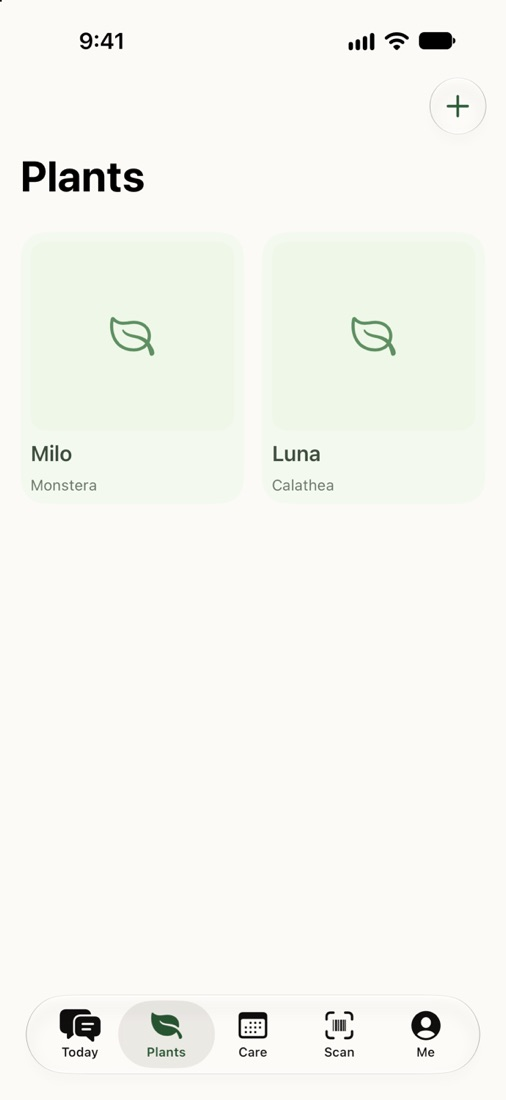
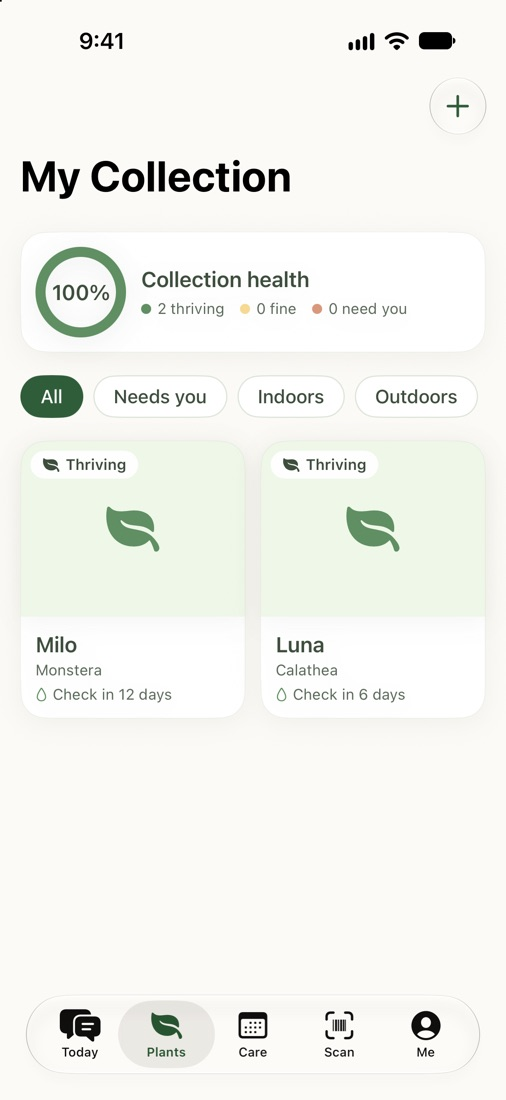
Website: use redesigned app screens (Home, My Collection, plant page, Care, Scan) and add Scan section

diff --git a/Website/build.py b/Website/build.py
@@ -44,6 +44,8 @@ T = {
   "s1_list": [("Plants", "Names, species, rooms and history"), ("Today", "The chat where you log care and ask questions"), ("Care", "This week, this month, this season"), ("Scan", "Products and plants, on-device")],
   "s2_eyebrow": "Plan ahead", "s2_h": "Know what's next before your plants droop.",
   "s2_sub": "A care calendar built from what you actually did. Going away? Travel care tells you what to do before you leave.",
+  "s3_eyebrow": "Scan", "s3_h": "Point at a label. Know if it's right for your plants.",
+  "s3_sub": "Scan the back of a fertiliser, potting mix or treatment and My Tiny Jungle checks it against every plant you have. Or scan a new plant, or a sick leaf, to find out what's going on.",
   "p_eyebrow": "Pricing", "p_h": "Start free. Grow when you're ready.",
   "plans": [
     ("Free", "€0", "forever", ["Up to 5 plants", "Chat and care requests", "Soil-check ritual", "Care calendar"], False, ""),
@@ -120,6 +122,8 @@ T = {
   "s1_list": [("Plantas", "Nomes, espécies, divisões e histórico"), ("Hoje", "A conversa onde regista cuidados e faz perguntas"), ("Cuidados", "Esta semana, este mês, esta estação"), ("Ler", "Produtos e plantas, no dispositivo")],
   "s2_eyebrow": "Planeie com antecedência", "s2_h": "Saiba o que vem a seguir antes de as plantas murcharem.",
   "s2_sub": "Um calendário feito a partir do que realmente fez. Vai viajar? Os cuidados de viagem dizem-lhe o que fazer antes de sair.",
+  "s3_eyebrow": "Ler", "s3_h": "Aponte para o rótulo. Saiba se serve para as suas plantas.",
+  "s3_sub": "Leia o verso de um adubo, substrato ou tratamento e a My Tiny Jungle compara-o com todas as suas plantas. Ou leia uma planta nova, ou uma folha doente, para perceber o que se passa.",
   "p_eyebrow": "Preços", "p_h": "Comece grátis. Cresça quando quiser.",
   "plans": [
     ("Grátis", "0 €", "para sempre", ["Até 5 plantas", "Conversa e pedidos de cuidado", "Ritual de verificar a terra", "Calendário de cuidados"], False, ""),
@@ -219,19 +223,23 @@ def home(L):
 <section class="hero"><div class="wrap">
 <div><h1 class="rise">{t['h1']}</h1><p class="lead rise d1">{t['lead']}</p>
 <div class="ctas rise d2">{cta}</div><p class="note">{t['note']}</p></div>
-<div class="stage"><div class="blob"></div>{phone('screen-today.jpg', 'Today chat screen').replace('loading="lazy"', 'fetchpriority="high"')}{phone('screen-care.jpg', 'Care calendar screen', 'back')}</div>
+<div class="stage"><div class="blob"></div>{phone('screen-home.jpg', 'Home screen').replace('loading="lazy"', 'fetchpriority="high"')}{phone('screen-plant.jpg', 'Plant page', 'back')}</div>
 </div></section>
 <section class="talk"><div class="wrap"><div class="bubbles">{bub}</div></div></section>
 <section class="section" id="features"><div class="wrap">
 <div class="eyebrow">{t['f_eyebrow']}</div><h2>{t['f_h']}</h2><p class="sub">{t['f_sub']}</p>
 <div class="grid">{feats}</div></div></section>
 <section class="section"><div class="wrap split rev">
-{phone('screen-plants.jpg', 'Plants screen')}
+{phone('screen-plants.jpg', 'My Collection screen')}
 <div><div class="eyebrow">{t['s1_eyebrow']}</div><h2>{t['s1_h']}</h2><p class="sub">{t['s1_sub']}</p><ul>{lst}</ul></div>
 </div></section>
 <section class="section"><div class="wrap split">
 <div><div class="eyebrow">{t['s2_eyebrow']}</div><h2>{t['s2_h']}</h2><p class="sub">{t['s2_sub']}</p></div>
 {phone('screen-care.jpg', 'Care screen')}
+</div></section>
+<section class="section"><div class="wrap split rev">
+{phone('screen-scan.jpg', 'Scan screen')}
+<div><div class="eyebrow">{t['s3_eyebrow']}</div><h2>{t['s3_h']}</h2><p class="sub">{t['s3_sub']}</p></div>
 </div></section>
 <section class="section" id="pricing"><div class="wrap">
 <div class="eyebrow">{t['p_eyebrow']}</div><h2>{t['p_h']}</h2>
